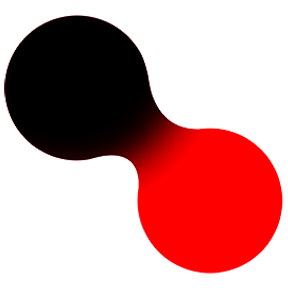
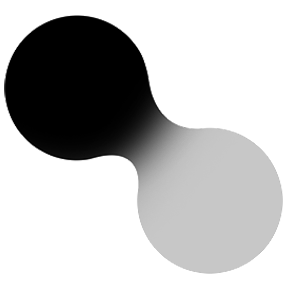
color changed

Changed region(s): [[0.375, 0.3438, 1.0, 0.9688], [0.0, 0.2812, 0.0312, 0.3125]]

diff --git a/contact.css b/contact.css
@@ -26,8 +26,8 @@ body {
   
 }
 .name-yang-xin:hover{
-  color:rgb(255, 0, 0);
-  text-shadow:  0px 0px 40px rgb(255, 0, 0);     
+  color:rgb(153, 153, 153);
+  text-shadow:  0px 0px 40px rgb(153, 153, 153);     
 }
 .menu-icon {
 margin-top:20px;
@@ -46,8 +46,8 @@ transition: 0.4s;
 
 .bar:hover{
 width: 30px;
-background-color: rgb(255, 0, 0);
-box-shadow: 0 0 30px 5px rgba(255, 0, 0, 0.4);
+background-color: rgb(153, 153, 153);
+box-shadow: 0 0 30px 5px rgba(153, 153, 153, 0.4);
 transform: rotate(45deg); 
 }
 
@@ -74,8 +74,8 @@ text-decoration: none;
 color: #000000;
 }
 .menu a:hover {
-  color: rgb(255, 0, 0);
-  text-shadow:  0px 0px 30px rgb(255, 0, 0); 
+  color: rgb(153, 153, 153);
+  text-shadow:  0px 0px 30px rgb(153, 153, 153); 
 }  
      
 .copy-right{
@@ -111,7 +111,7 @@ form {
   padding:5px 5px 5px 15px ;
 }
 .contact-input:hover{
-  box-shadow: 0 0 50px 5px rgba(255, 0, 0, 0.1);
+  box-shadow: 0 0 50px 5px rgba(153, 153, 153, 0.1);
   background-color: rgb(255, 255, 255);
 }
 textarea::placeholder {
@@ -130,10 +130,10 @@ input::placeholder {
   position: center;
 }
 .send-buttom:hover{
-  color:#ff0000;
+  color:#575757;
   background-color: rgb(255, 255, 255);
   box-shadow: 0 0 10px 5px rgba(255, 255, 255, 0.2) inset;
-  box-shadow: 0 0 50px 5px rgba(255, 0, 0, 0.2);
+  box-shadow: 0 0 50px 5px rgba(153, 153, 153, 0.2);
 }
 .iconContainer{
   display: flex;
@@ -151,7 +151,7 @@ input::placeholder {
 .icons:hover{
   background-color: rgb(255, 255, 255);
   box-shadow: 0 0 2px 2px rgba(119, 235, 255, 0.1) inset;
-  box-shadow: 0 0 20px 5px rgba(255, 0, 0, 0.1);
+  box-shadow: 0 0 20px 5px rgba(153, 153, 153, 0.1);
   opacity: 0.9;
 }
 
@@ -179,13 +179,13 @@ input::placeholder {
   text-align: center;
   border-radius: 50%;
   background-color: rgb(231, 235, 244);
-  box-shadow: 0 0 300px 20px rgba(255, 0, 0, 0.3);
+  box-shadow: 0 0 300px 20px rgba(153, 153, 153, 0.3);
   transition: box-shadow 0.5s, background-color 0.5s;
 }
 
 .popup-content:hover{
   background-color: rgba(0, 0, 0, 0.2); 
-  box-shadow: 0 0 30px 10px rgba(255, 0, 0, 0.6);
+  box-shadow: 0 0 30px 10px rgba(153, 153, 153, 0.6);
 }
 
 #close-popup {

diff --git a/header.css b/header.css
@@ -27,8 +27,8 @@ body,html {
   transition: text-shadow 0.3s, color 0.3s;
 }
 .name-yang-xin:hover{
-  color:rgb(255, 0, 0);
-  text-shadow:  0px 0px 20px rgba(255,0,0, 1);     
+  color:rgb(153, 153, 153);
+  text-shadow:  0px 0px 20px rgba(153, 153, 153, 1);     
 }
 .menu-icon {
 margin-top:20px;
@@ -47,8 +47,8 @@ transition: 0.4s;
 
 .bar:hover{
 width: 30px;
-background-color: rgb(255, 0, 0);
-box-shadow: 0 0 20px 3px rgba(255,0,0, 0.9);
+background-color: rgb(153, 153, 153);
+box-shadow: 0 0 20px 3px rgba(153, 153, 153, 0.9);
 transform: rotate(45deg); 
 }
 
@@ -75,8 +75,8 @@ text-decoration: none;
 color: #000000;
 }
 .menu a:hover {
-  color: rgb(255, 0, 0);
-  text-shadow:  0px 10px 30px rgba(255,0,0, 1); 
+  color: rgb(153, 153, 153);
+  text-shadow:  0px 10px 30px rgba(153, 153, 153); 
 }  
      
 .copy-right{

diff --git a/header-workCover.css b/header-workCover.css
@@ -27,8 +27,8 @@ body {
   
 }
 .name-yang-xin:hover{
-  color:rgb(255, 0, 0);
-  text-shadow:  0px 0px 40px rgb(255, 0, 0);     
+  color:rgb(153, 153, 153);
+  text-shadow:  0px 0px 40px rgb(153, 153, 153);     
 }
 .menu-icon {
 margin-top:20px;
@@ -47,8 +47,8 @@ transition: 0.4s;
 
 .bar:hover{
 width: 30px;
-background-color:rgb(255, 0, 0);
-box-shadow: 0 0 30px 5px rgba(255,0,0, 0.5);
+background-color:rgb(153, 153, 153);
+box-shadow: 0 0 30px 5px rgba(153, 153, 153, 0.5);
 transform: rotate(45deg); 
 }
 
@@ -75,8 +75,8 @@ text-decoration: none;
 color: #000000;
 }
 .menu a:hover {
-  color: rgb(255, 0, 0);
-  text-shadow:  0px 0px 30px rgb(255, 0, 0); 
+  color: rgb(153, 153, 153);
+  text-shadow:  0px 0px 30px rgb(153, 153, 153); 
 }  
      
 .copy-right{

diff --git a/works.css b/works.css
@@ -19,7 +19,7 @@
 
 @keyframes pulse {
   0%, 100% {
-      transform: scale(0.9);
+      transform: scale(1);
   }
 
   50% {
@@ -28,7 +28,7 @@
 }
 .work-covers:hover {
   opacity:0.2;
-  box-shadow: 0 0 20px 3px rgba(255,0,0, 1);
+  box-shadow: 0 0 20px 3px rgba(153,153,153, 1);
 }
 .cover-text-title{
   margin-top:-5px;
@@ -37,14 +37,14 @@
   font-size: 13px;
 }
 .cover-text-title:hover{
-  color:rgb(255, 0, 0);
+  color:rgb(153, 153, 153);
 }
 .cover-text{
   margin-top:-10px;
   margin-left:10px;
-  color:rgb(135, 135, 135);
+  color:rgb(153, 153, 153);
   font-size: 11px;
 }
 .cover-text:hover{
-  color:rgb(255, 0, 0);
+  color:rgb(153, 153, 153);
 }

diff --git a/home.html b/home.html
@@ -36,6 +36,12 @@
     <div class="workCovers-contents">
 
       <div>
+        <a href="https://y-ang.xin/-DigitalColonialism.html">  <img class="work-covers" src="pictures/D-01.gif" alt="Image Description"></a>       
+        <p class="cover-text-title">Techno-Dream</p>
+        <p class="cover-text">2024</p>
+      </div>
+
+      <div>
         <a href="https://y-ang.xin/-reAI-lity.html">  <img class="work-covers" src="pictures/ReAI-lity.jpg" alt="Image Description"></a>       
         <p class="cover-text-title">ReAI-lity</p>
         <p class="cover-text">2024</p>

diff --git a/index.css b/index.css
@@ -3,7 +3,7 @@ body, html {
   margin: 0;
   padding: 0;
   height: 100%;
-  background-color: rgb(255, 0, 0);
+  background-color: rgb(153, 153, 153);
 }
 
 #custom-cursor {
